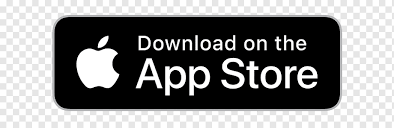
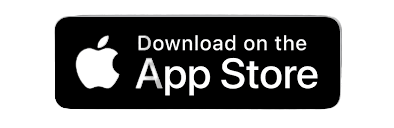
styles.css v3.0

diff --git a/Instagram/index.html b/Instagram/index.html
@@ -22,9 +22,9 @@
                 <div id="form-box">
                     <img id="logo-instagram" src="img/meta.png" alt="Logo do instagram">
                     <form id="login-form">
-                        <input type="text" name="username" placeholder="Numero de telefone, usuário ou e-mail"/>
-                        <input type="password" name="password" placeholder="senha"/>
-                        <input type="submit" value="Entrar"/>
+                        <input type="text" name="username" placeholder="Numero de telefone, usuário ou e-mail" />
+                        <input type="password" name="password" placeholder="senha" />
+                        <input type="submit" value="Entrar" />
                     </form>
                     <div class="separator">
                         <div class="line">
@@ -32,8 +32,10 @@
                         </div>
                         <div id="other-links">
                             <div id="facebook-login">
-                                <img src="img/favicon.png" alt="Facebook Login">
-                                <span>Entrar com o Facebook</span>
+                                <a href="#">
+                                    <img src="img/favicon.png" alt="Facebook Login">
+                                    <span>Entrar com o Facebook</span>
+                                </a>
                             </div>
                             <div id="forgot-password">
                                 <a href="#">Esqueceu a senha?</a>
@@ -47,10 +49,10 @@
                 <div id="get-app-container">
                     <p>Obtenha o aplicativo</p>
                     <a href="#">
-                        <img src="img/applestore.png" alt="Apple Store">
+                        <img class="applestore" src="img/applestore.png" alt="Apple Store">
                     </a>
                     <a href="#">
-                        <img src="img/googleplay.png" alt="Google Play">
+                        <img class="googleplay" src="img/googleplay.png" alt="Google Play">
                     </a>
                 </div>
             </div>

diff --git a/Instagram/arquvios_CSS/styles.css b/Instagram/arquvios_CSS/styles.css
@@ -104,4 +104,115 @@ body {
     font-size: 14px;
 }
 
+/* FACEBOOK LOGIN */
 
+#facebook-login {
+    margin-bottom: 25px;
+}
+
+#facebook-login a {
+    text-decoration: none;
+    color: #385185;
+    display: flex;
+    align-items: center;
+    justify-content: center;
+}
+
+#facebook-login img {
+    width: 16px;
+    height: 16px;
+    margin-right: 8px;
+}
+
+#facebook-login span {
+    font-weight: bold;
+    font-size: 13px;
+    margin-top: 1px;
+}
+
+/* FORGOT PASSWORD */
+#forgot-password {
+    margin-bottom: 20px;
+    font-size: 12px;
+}
+
+#forgot-password a {
+    text-decoration: none;
+    color: #373799;
+}
+
+/* REGISTRO */
+#register-container {
+    background-color: #FFF;
+    border: 1px solid #DBDBDB;
+    width: 350px;
+    margin-top: 10px;
+    padding:25px;
+}
+
+#register-container p {
+    font-size: 14px;
+    color: #262626;
+}
+
+#register-container a {
+    color: #4a95f6;
+    font-weight: bold;
+    text-decoration: none;
+}
+
+/* GET APP */
+#get-app-container {
+    text-align: center;
+    width: 350px;
+}
+
+#get-app-container p {
+    margin: 20px 0;
+    font-size: 13px;
+}
+
+#get-app-container a {
+    text-decoration: none;
+}
+
+.applestore {
+    max-width: 200px;
+    height: 50px;
+}
+
+.googleplay {
+    height: 120px;
+}
+
+/* FOOTER */
+footer {
+    text-align: left;
+    width: 1000px;
+    margin: 50px auto;
+    display: flex;
+    flex-direction: column;
+    justify-content: center;
+}
+
+footer #footer-links {
+    display: flex;
+    list-style: none;
+}
+
+#footer-links li {
+    margin-right: 10px;
+}
+
+#footer-links a,
+#copyright,
+#version {
+    text-decoration: none;
+    color: #8e8e8e;
+    font-size: 12px;
+}
+
+#copyright,
+#version {
+    margin-top: 10px;
+}
